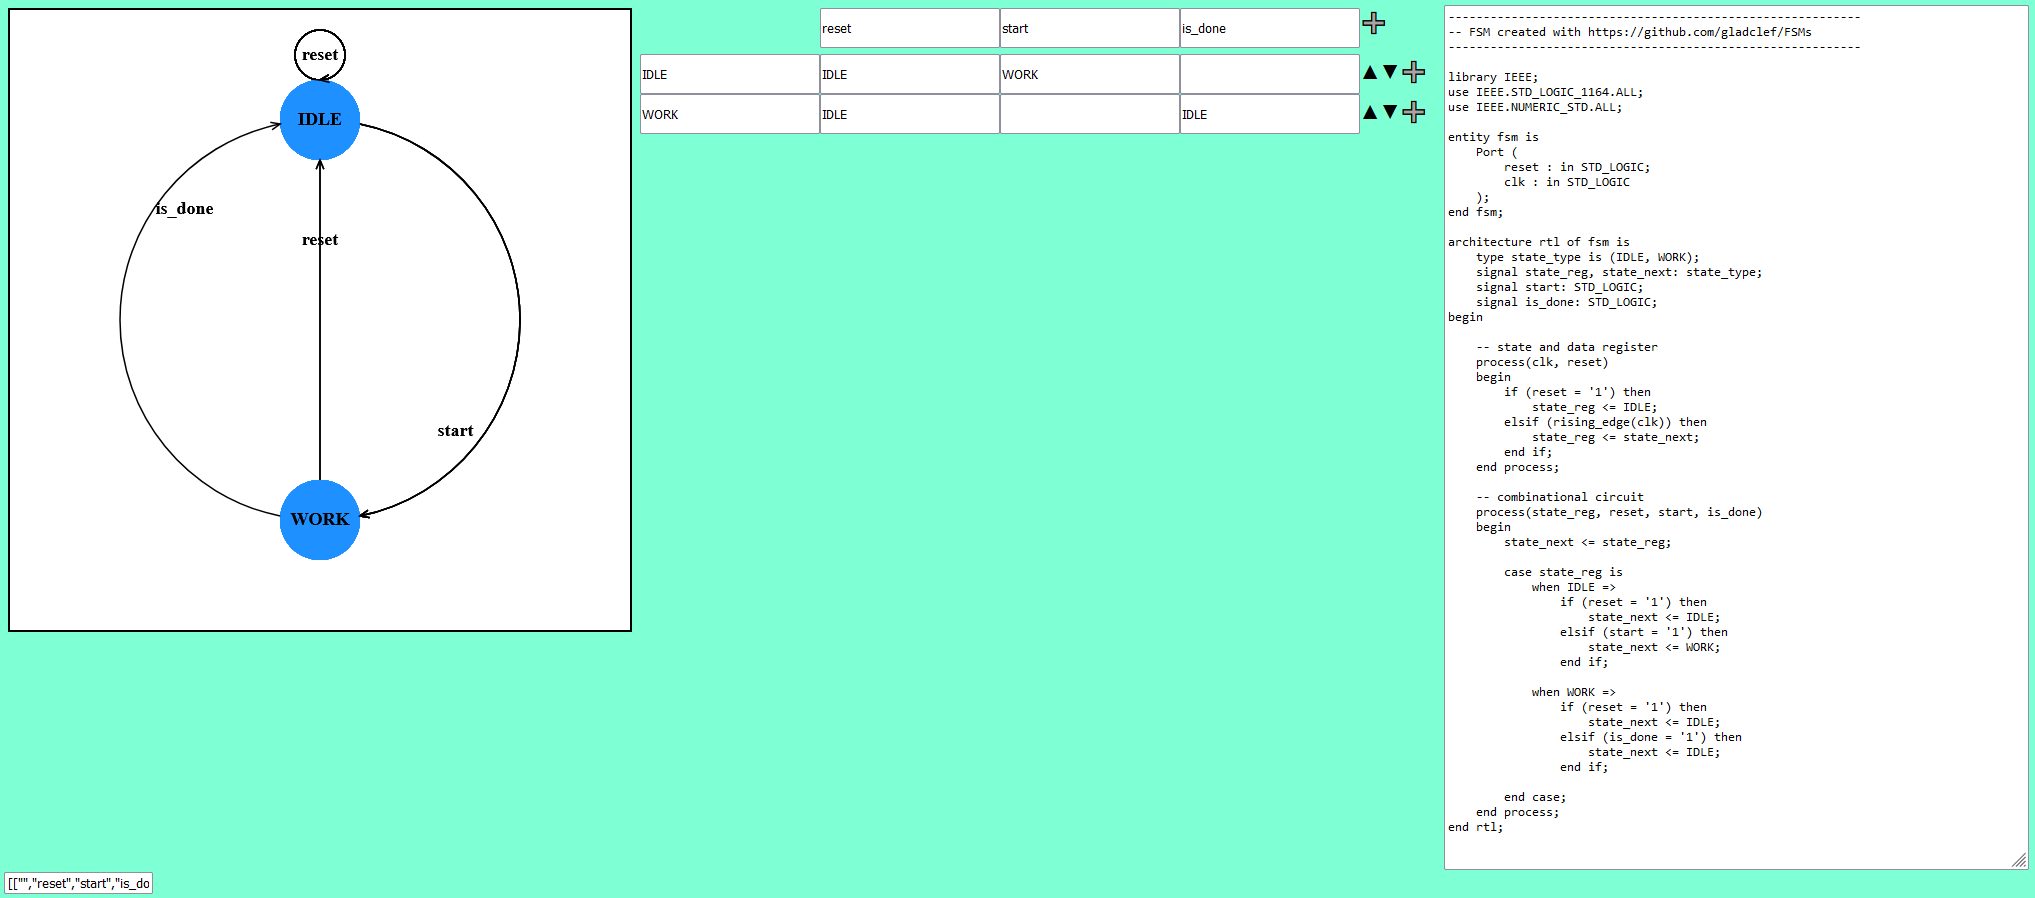
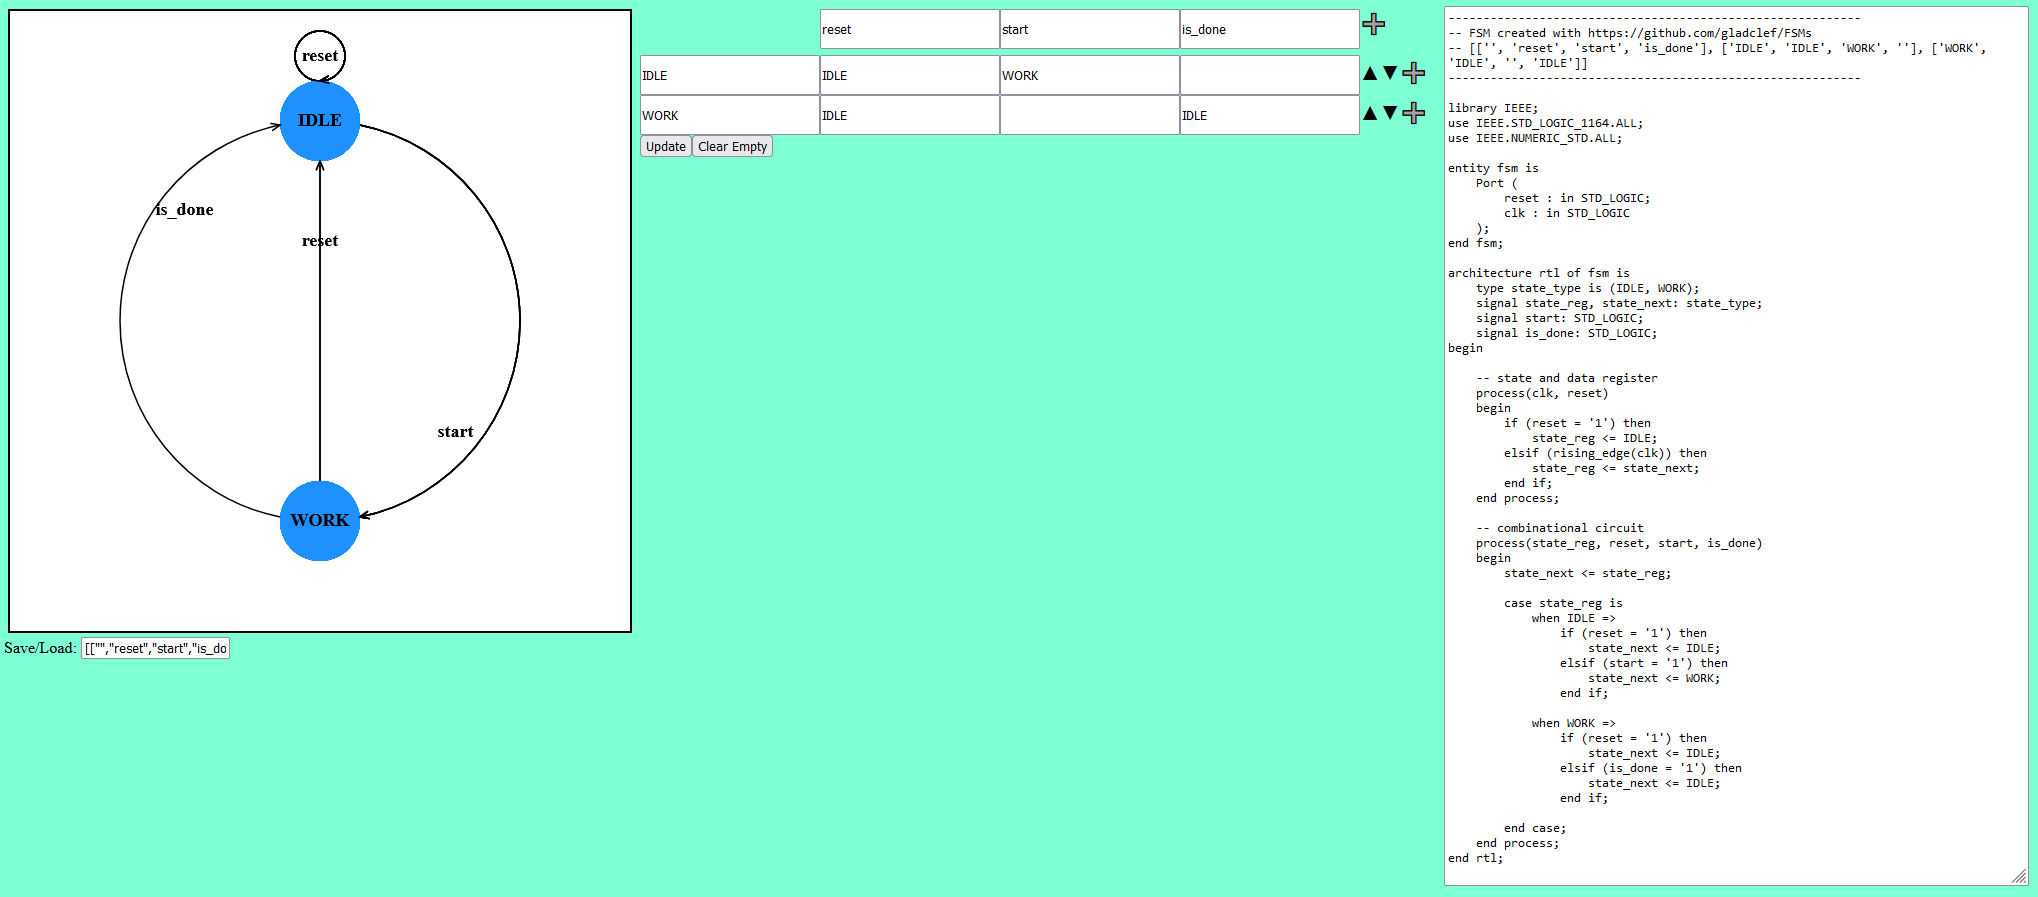
new screenshot, tiny bit of reorg

diff --git a/static/main.css b/static/main.css
@@ -2,8 +2,14 @@ body {
     background-color: aquamarine;
 }
 
-div.fsm_container {
+div.inline {
     display: inline-block;
+}
+
+div.diagram_container {
+    vertical-align: top;
+}
+div.diagram {
     vertical-align: top;
     min-width: 200px;
     min-height: 200px;
@@ -11,27 +17,26 @@ div.fsm_container {
     border: 2px solid black;
     margin: 4px;
 }
-div.fsm_container text {
+div.diagram text {
     font-size: 18px;
     font-weight: bold;
     text-anchor: middle;
 }
-div.fsm_container circle {
+div.diagram circle {
     fill: dodgerblue;
 }
-div.fsm_container path {
+div.diagram path {
     stroke: black;
     stroke-width: 1.5px;
     fill: transparent;
 }
-div.fsm_container circle.arc {
+div.diagram circle.arc {
     stroke: black;
     stroke-width: 1.5px;
     fill: transparent;
 }
 
 div.table {
-    display: inline-block;
     vertical-align: top;
     width: 800px;
     height: 650px;
@@ -59,7 +64,6 @@ div.table .sym {
 }
 
 div.code {
-    display: inline-block;
 }
 div.code input {
     width: 600px;

diff --git a/templates/main.html b/templates/main.html
@@ -24,10 +24,12 @@
     </head>
     <body>
         <div>
-            <div class="fsm_container">{{ populate_diagram() | safe }}</div>
-            <div class="table">{{ populate_table() | safe }}</div>
-            <div class="code">{{ populate_code() | safe }}</div>
-            <div class="saveme"><input type="text" name="saveme_tvals" onchange="saveme_changed()" /></div>
+            <div class="inline diagram_container">
+                <div class="diagram">{{ populate_diagram() | safe }}</div>
+                <div class="saveme">Save/Load: <input type="text" name="saveme_tvals" onchange="saveme_changed()" /></div>
+            </div>
+            <div class="inline table">{{ populate_table() | safe }}</div>
+            <div class="inline code">{{ populate_code() | safe }}</div>
         </div>
 <!--        <div id="f1">-->
 <!--            <p>Enter Name:</p>-->

diff --git a/static/table.js b/static/table.js
@@ -116,7 +116,7 @@ function update_with_clear_empty() {
 function _update(table_vals, clear_empty) {
     console.log("_update");
     post("/update_table", {"table_vals": table_vals, "clear_emtpy": clear_empty}, null, form_set('table', true, attach_table_handles));
-    post("/update_graph", {"table_vals": table_vals}, null, form_set('fsm_container', true));
+    post("/update_graph", {"table_vals": table_vals}, null, form_set('diagram', true));
     post("/update_code", {"table_vals": table_vals}, null, form_set('code', true));
 
     dont_update_on_saveme_changed = true;

diff --git a/main.py b/main.py
@@ -110,7 +110,7 @@ def populate_graph(table_vals:list[list[str]] = None) -> str:
     size = r2*2 + r1*2 + rself*4 + 20*2
     center = size / 2
     angle = 2*math.pi / len(states)
-    _, text_height = css_get_size("div.fsm_container text")
+    _, text_height = css_get_size("div.diagram text")
     pcenter = geo.Pxy(center, center)
 
     # prep
